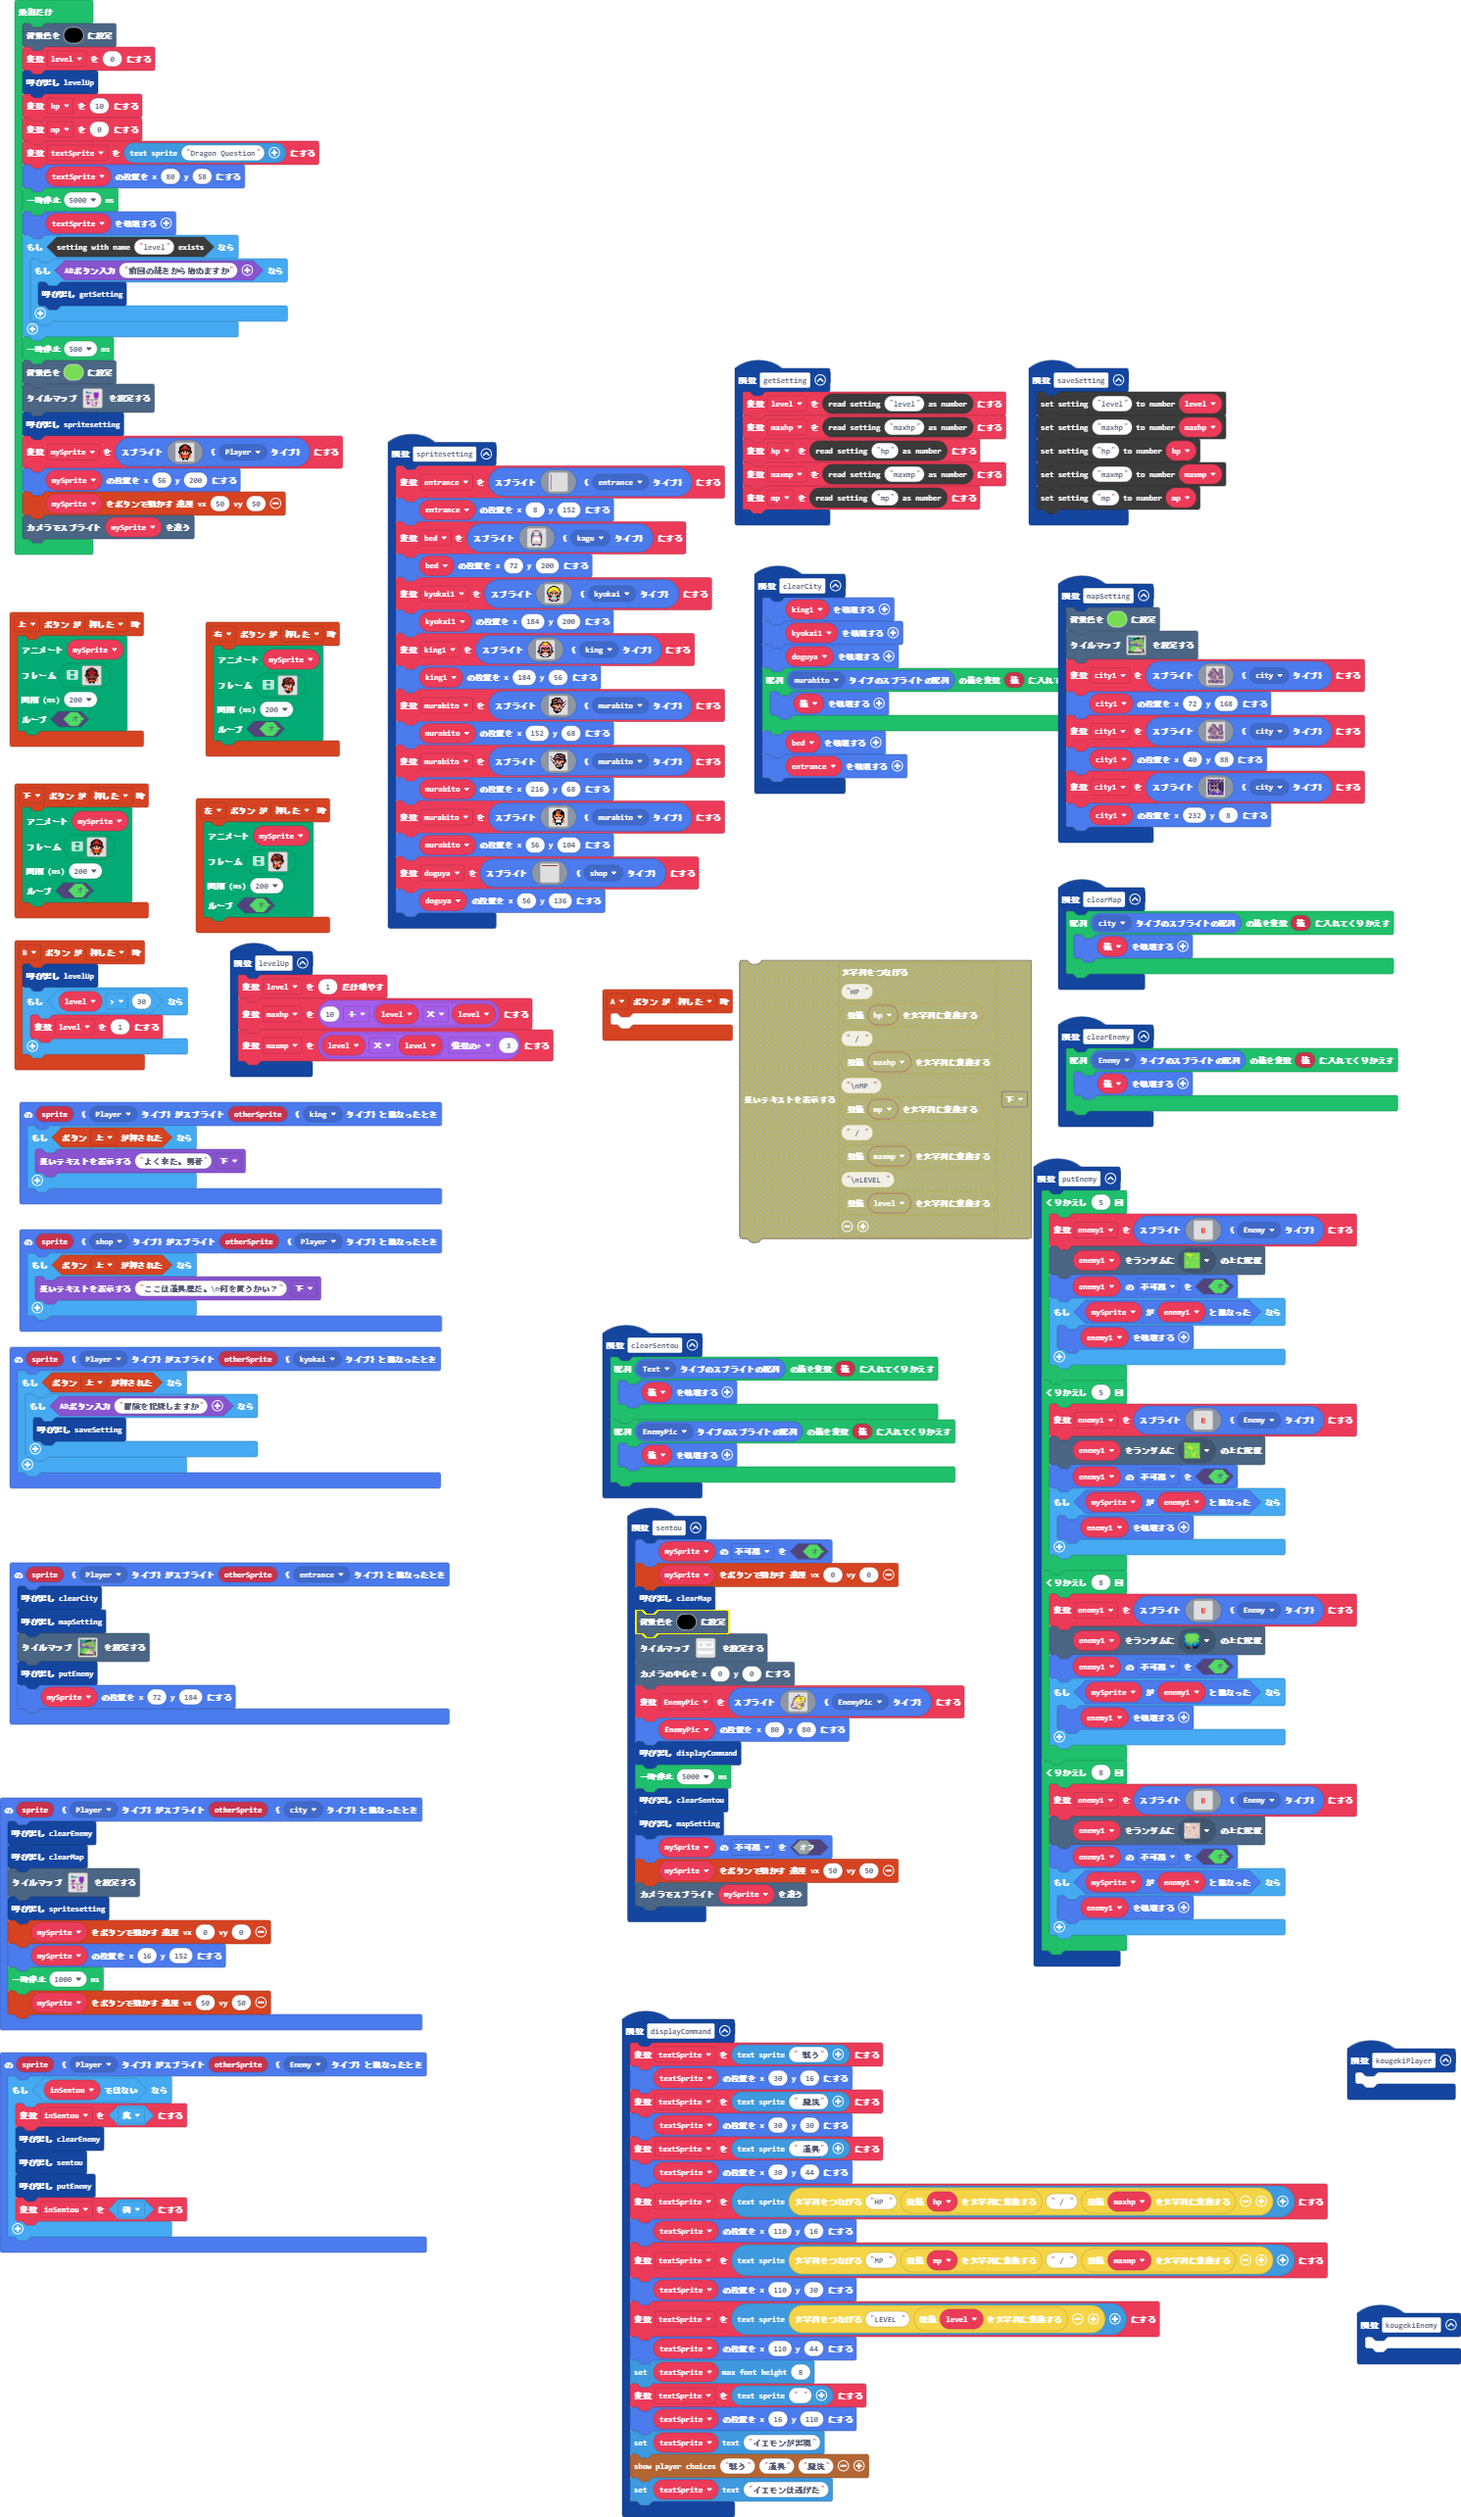
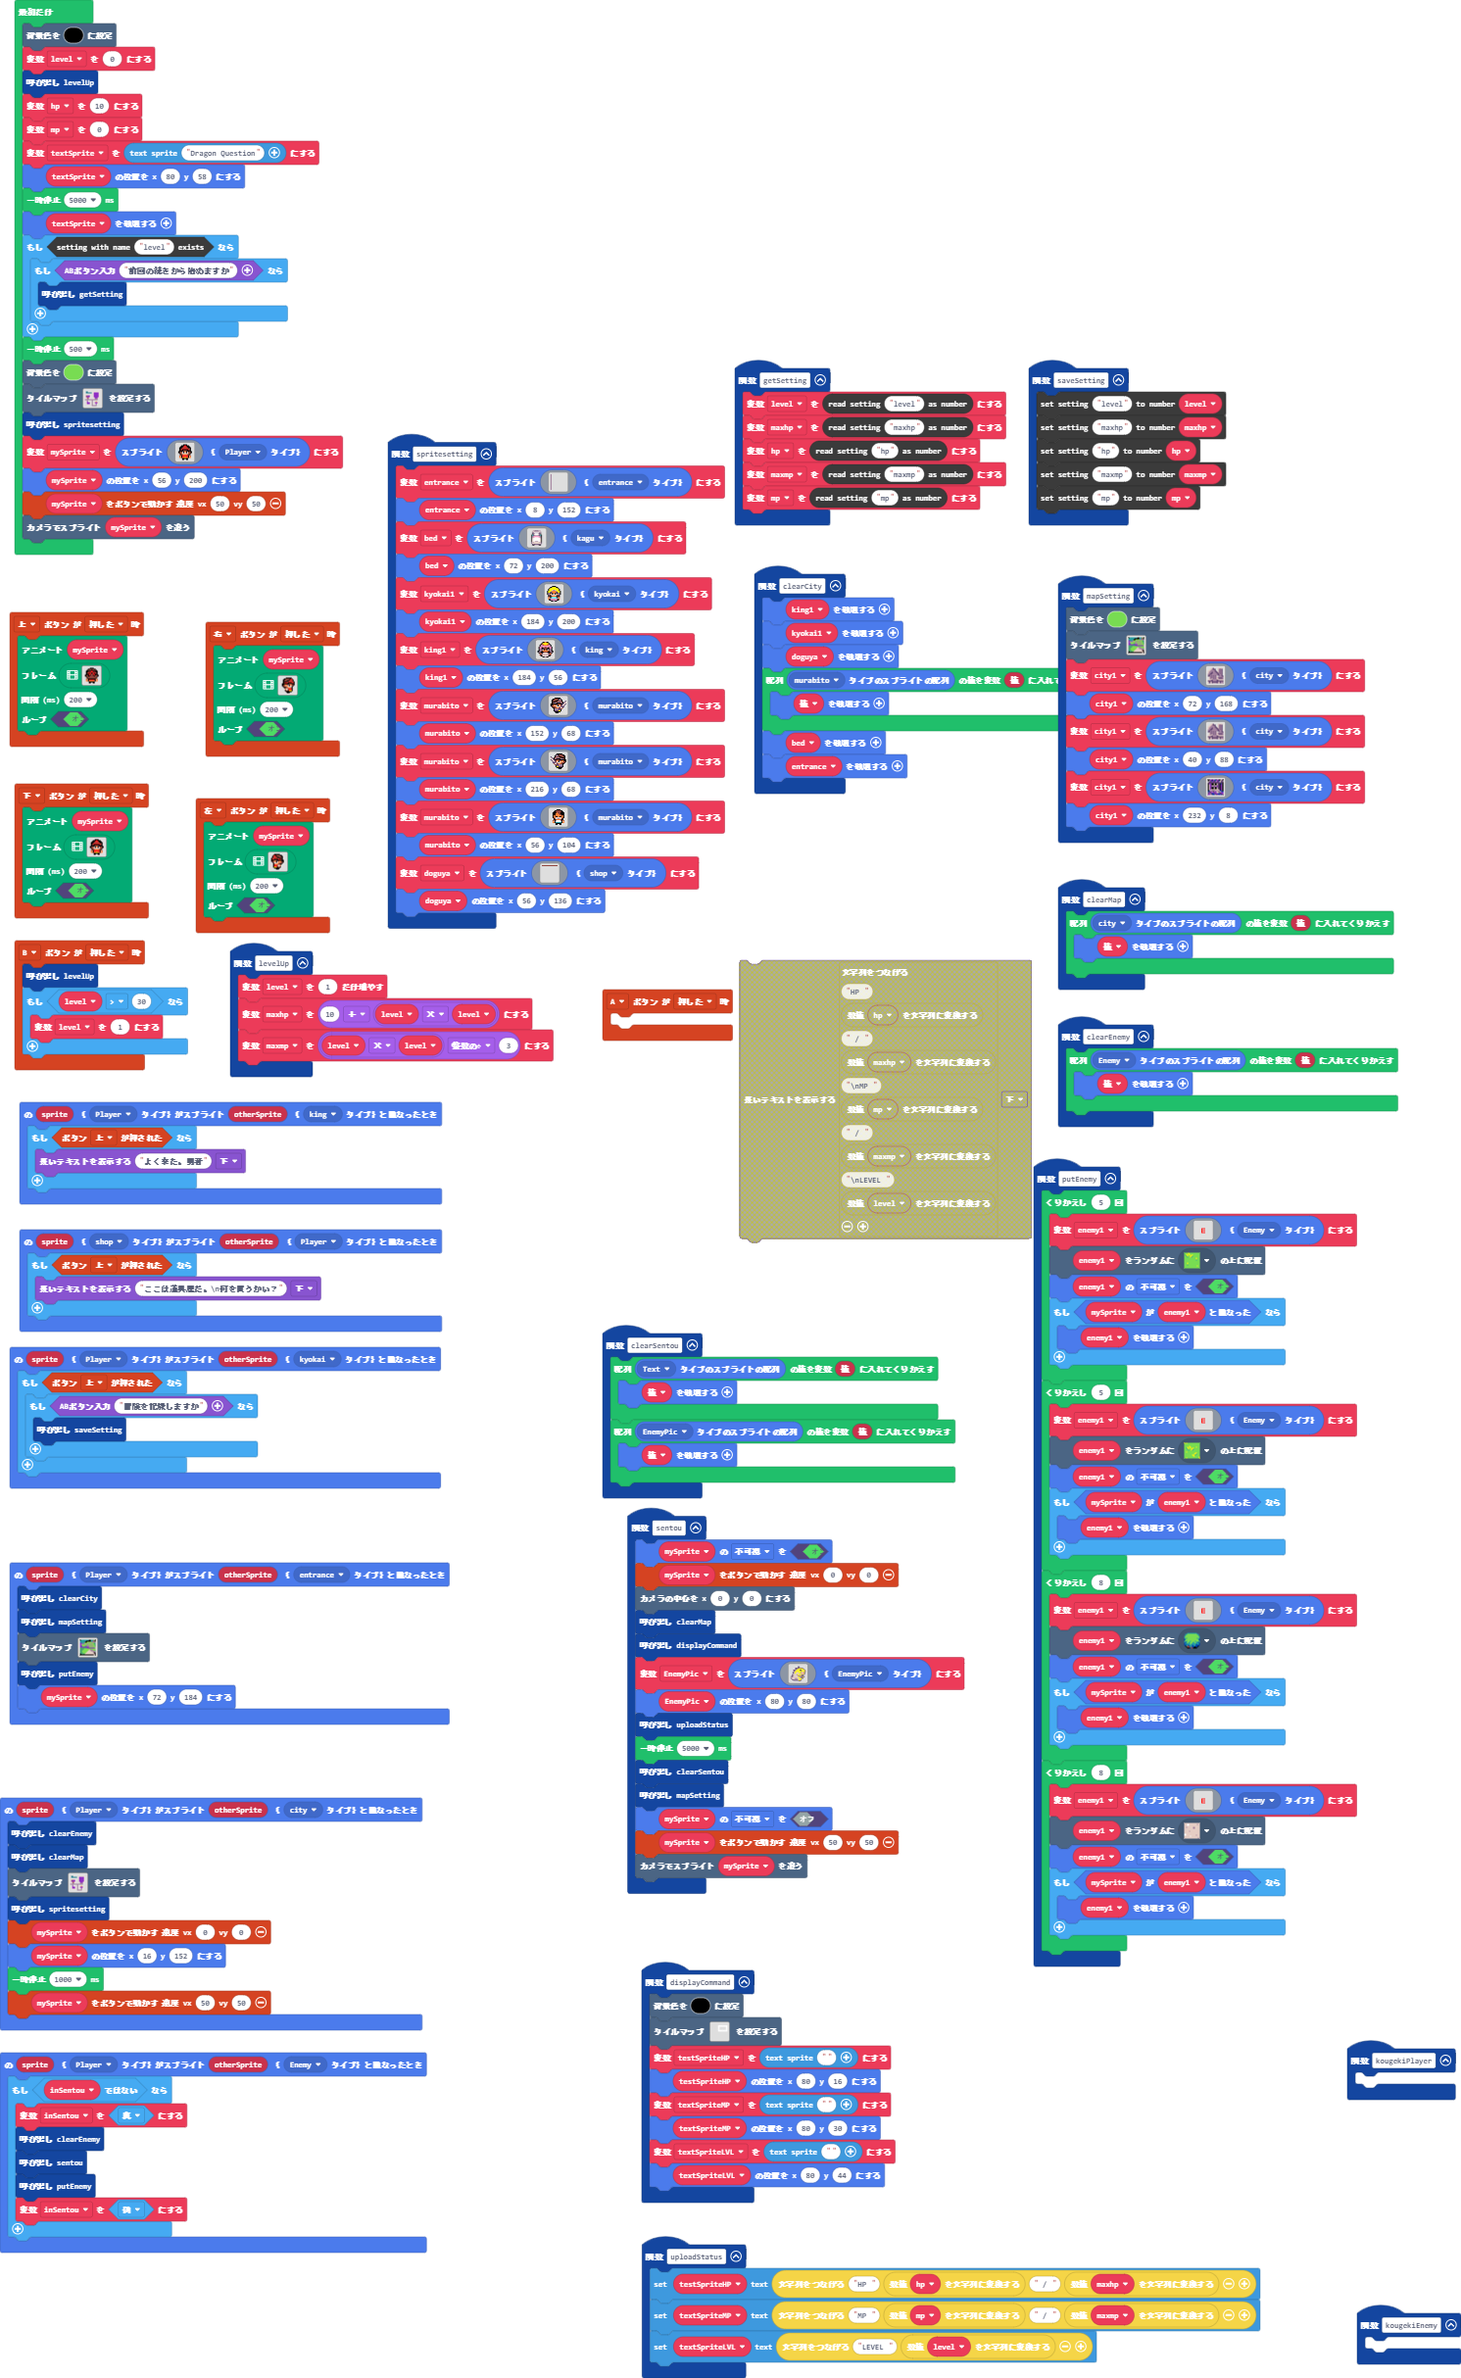
戦闘　ダイヤログ

diff --git a/main.ts b/main.ts
@@ -373,13 +373,17 @@ sprites.onOverlap(SpriteKind.Player, SpriteKind.entrance, function (sprite, othe
     putEnemy()
     mySprite.setPosition(72, 184)
 })
+function uploadStatus () {
+    testSpriteHP.setText("HP " + convertToText(hp) + " / " + convertToText(maxhp))
+    textSpriteMP.setText("MP " + convertToText(mp) + " / " + convertToText(maxmp))
+    textSpriteLVL.setText("LEVEL " + convertToText(level))
+}
 function sentou () {
     mySprite.setFlag(SpriteFlag.Invisible, true)
     controller.moveSprite(mySprite, 0, 0)
-    clearMap()
-    scene.setBackgroundColor(15)
-    tiles.setTilemap(tilemap`レベル3`)
     scene.centerCameraAt(0, 0)
+    clearMap()
+    displayCommand()
     EnemyPic = sprites.create(img`
         ........................
         ............cc..........
@@ -406,9 +410,8 @@ function sentou () {
         .....cccccccc555c.......
         .............ccc........
         `, SpriteKind.EnemyPic)
-    EnemyPic.setPosition(36, 35)
-    displayCommand()
-    uploatText()
+    EnemyPic.setPosition(80, 80)
+    uploadStatus()
     pause(5000)
     clearSentou()
     mapSetting()
@@ -718,53 +721,14 @@ function clearMap () {
     }
 }
 function displayCommand () {
-    game.setDialogCursor(img`
-        1 1 1 6 6 6 6 6 6 1 1 1 
-        1 1 6 6 6 8 8 8 6 6 1 1 
-        1 6 6 6 6 8 8 8 6 6 6 1 
-        1 6 6 6 8 8 6 8 8 6 6 6 
-        6 6 6 6 8 6 6 6 8 6 6 6 
-        6 6 6 6 8 6 6 6 8 6 6 6 
-        6 6 6 8 8 8 8 8 8 8 6 6 
-        6 6 6 8 6 6 6 6 6 8 6 6 
-        1 6 6 8 6 6 6 6 6 8 6 6 
-        1 6 6 8 6 6 6 6 6 8 6 1 
-        1 1 6 6 6 6 6 6 6 6 1 1 
-        1 1 1 1 6 6 6 6 6 1 1 1 
-        `)
-    game.setDialogFrame(img`
-        1 1 1 1 1 1 1 1 1 1 1 1 1 1 1 
-        1 1 1 1 1 1 1 1 1 1 1 1 1 1 1 
-        1 1 1 1 1 1 1 1 1 1 1 1 1 1 1 
-        1 1 1 1 1 1 1 1 1 1 1 1 1 1 1 
-        1 1 1 1 1 1 1 1 1 1 1 1 1 1 1 
-        1 1 1 1 1 1 1 1 1 1 1 1 1 1 1 
-        1 1 1 1 1 1 1 1 1 1 1 1 1 1 1 
-        1 1 1 1 1 1 1 1 1 1 1 1 1 1 1 
-        1 1 1 1 1 1 1 1 1 1 1 1 1 1 1 
-        1 1 1 1 1 1 1 1 1 1 1 1 1 1 1 
-        1 1 1 1 1 1 1 1 1 1 1 1 1 1 1 
-        1 1 1 1 1 1 1 1 1 1 1 1 1 1 1 
-        1 1 1 1 1 1 1 1 1 1 1 1 1 1 1 
-        1 1 1 1 1 1 1 1 1 1 1 1 1 1 1 
-        1 1 1 1 1 1 1 1 1 1 1 1 1 1 1 
-        `)
-    game.showLongText("イエローモンスタが現れた", DialogLayout.Bottom)
+    scene.setBackgroundColor(15)
+    tiles.setTilemap(tilemap`レベル3`)
     testSpriteHP = textsprite.create("")
-    testSpriteHP.setPosition(80, 18)
+    testSpriteHP.setPosition(80, 16)
     textSpriteMP = textsprite.create("")
-    textSpriteMP.setPosition(80, 32)
-    TextSpriteLVL = textsprite.create("")
-    TextSpriteLVL.setPosition(80, 46)
-    textSprite.setMaxFontHeight(8)
-    textSprite = textsprite.create(" ")
-    textSprite.setPosition(16, 110)
-}
-function uploatText () {
-    testSpriteHP.setText("HP " + convertToText(hp) + " / " + convertToText(maxhp))
-    textSpriteMP.setText("MP " + convertToText(mp) + " / " + convertToText(maxmp))
-    TextSpriteLVL.setText("LEVEL " + convertToText(level))
-    story.showPlayerChoices("戦う", "道具", "魔法")
+    textSpriteMP.setPosition(80, 30)
+    textSpriteLVL = textsprite.create("")
+    textSpriteLVL.setPosition(80, 44)
 }
 sprites.onOverlap(SpriteKind.Player, SpriteKind.city, function (sprite, otherSprite) {
     clearEnemy()
@@ -801,11 +765,11 @@ controller.A.onEvent(ControllerButtonEvent.Pressed, function () {
 	
 })
 let inSentou = false
-let TextSpriteLVL: TextSprite = null
-let textSpriteMP: TextSprite = null
-let testSpriteHP: TextSprite = null
 let city1: Sprite = null
 let EnemyPic: Sprite = null
+let textSpriteLVL: TextSprite = null
+let textSpriteMP: TextSprite = null
+let testSpriteHP: TextSprite = null
 let doguya: Sprite = null
 let murabito: Sprite = null
 let king1: Sprite = null
@@ -816,7 +780,6 @@ let enemy1: Sprite = null
 let maxmp = 0
 let maxhp = 0
 let mySprite: Sprite = null
-let textSprite: TextSprite = null
 let mp = 0
 let hp = 0
 let level = 0
@@ -825,7 +788,7 @@ level = 0
 levelUp()
 hp = 10
 mp = 0
-textSprite = textsprite.create("Dragon Question I")
+let textSprite = textsprite.create("Dragon Question")
 textSprite.setPosition(80, 58)
 pause(5000)
 textSprite.destroy()
